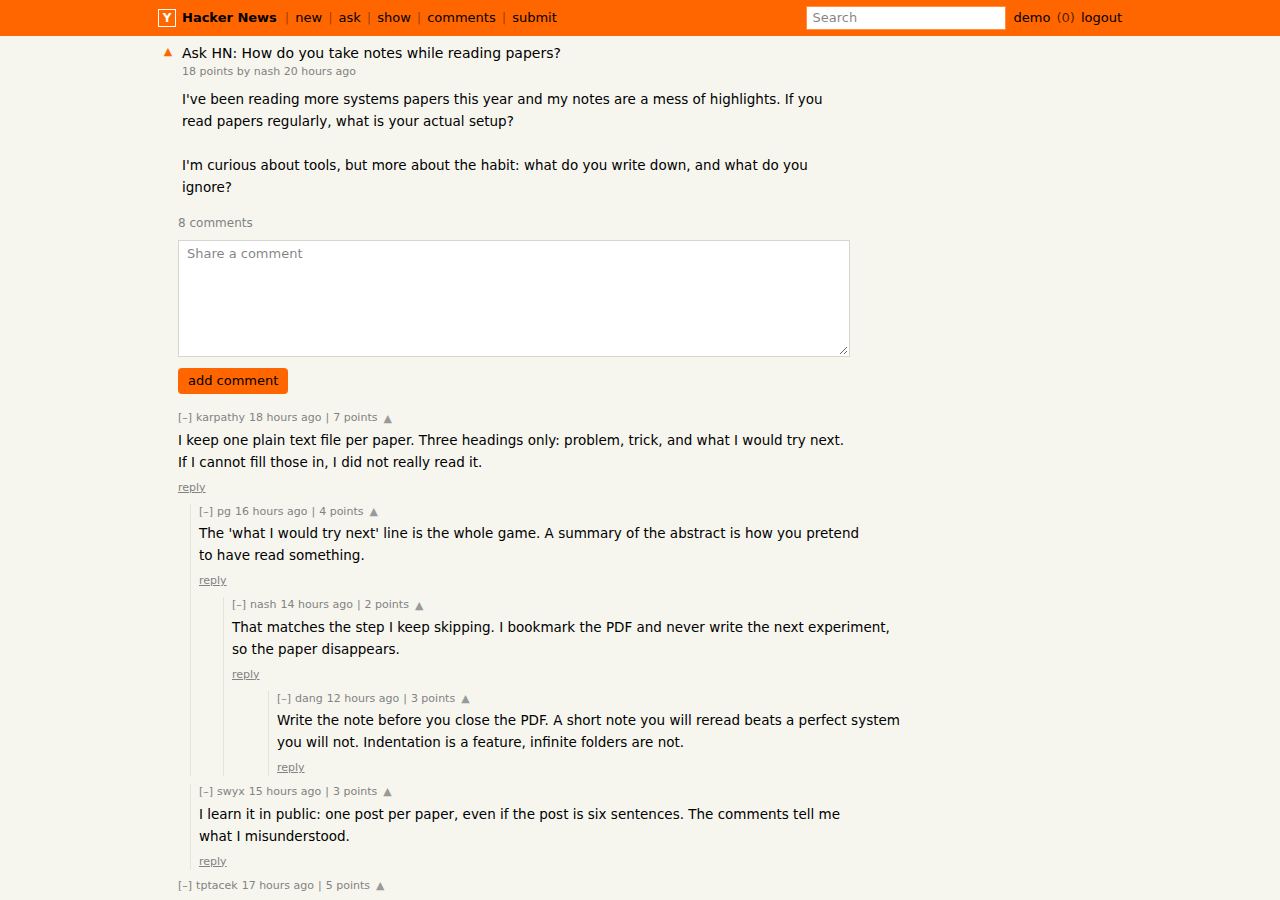
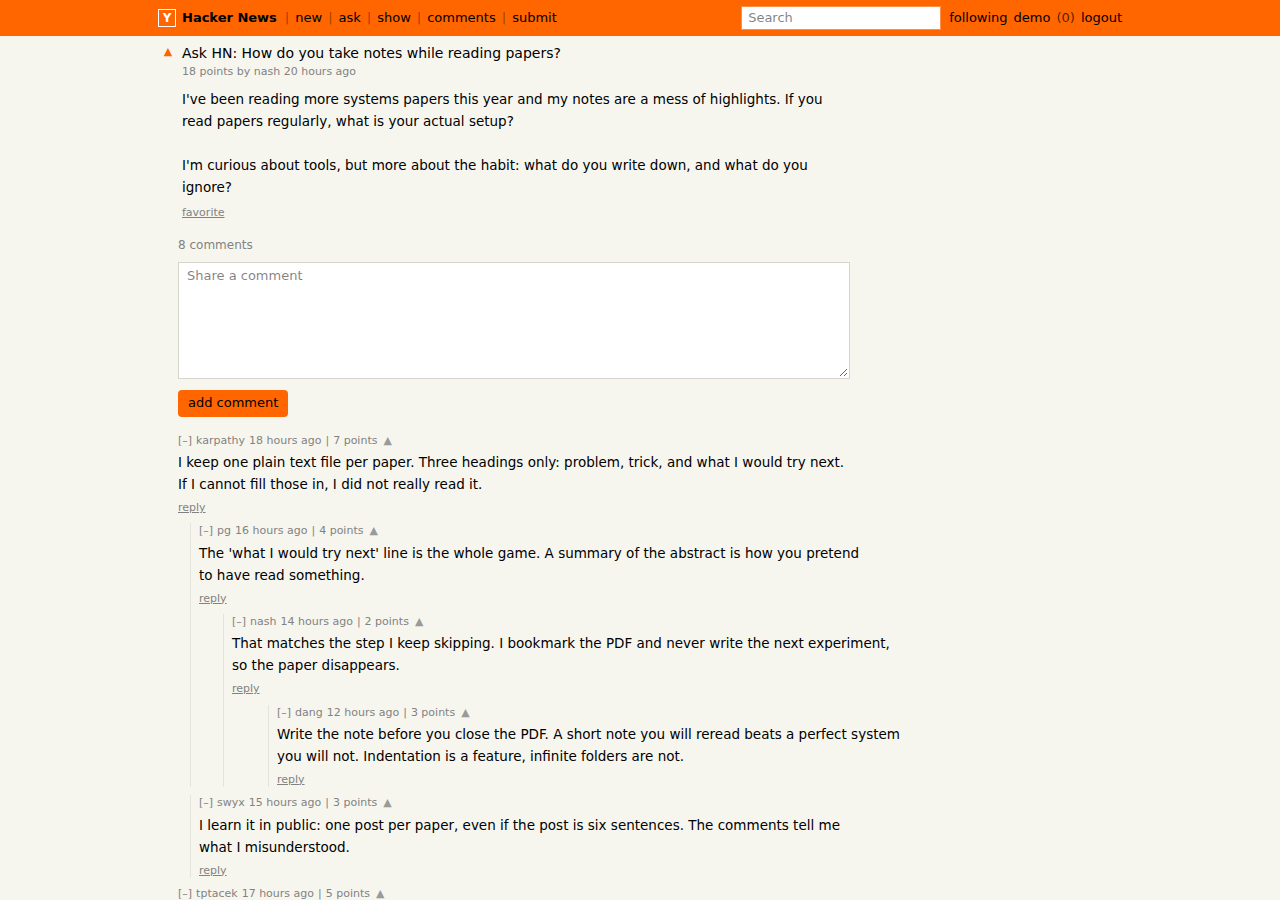
Round 3 Phase 3: capture comment, favorite, and following screenshots.

diff --git a/SCREENSHOTS_UPDATE.md b/SCREENSHOTS_UPDATE.md
@@ -1,0 +1,74 @@
+# 截图补全
+
+第三轮阶段 3 的自检。`scripts/capture-screenshots.mjs` 在原有 7 张图之后，继续用登录后的 demo 账号拍第二轮功能。
+
+## 做了什么
+
+脚本仍用本机 Chrome 打开 `SCREENSHOT_BASE_URL`（默认 `http://127.0.0.1:3000`）。登录 demo 后新增这些步骤：
+
+1. 打开首页第一篇帖子，点 favorite，再打开 `/user/demo`，拍收藏列表。
+2. 打开 `/user/pg`，点 follow，等到 followers 不再是 0，拍粉丝数和关注数。
+3. 打开 `/following`，确认列表里有 pg 的帖子。
+4. 打开「Ask HN: How do you take notes while reading papers?」，给 dang 那条带 “Indentation is a feature…” 的评论投票，拍已投票的箭头。
+5. 在同一帖下发一条评论再删除，拍「已删除」。
+
+收藏和关注放在发评论之前，避免 demo 主页的收藏图里混进刚删掉的评论。
+
+`README.md` 在评论、收藏和关注的说明旁边引用了这 5 张图。截图一节也列出了文件名。
+
+## 新增截图
+
+| 文件 | 功能 |
+| --- | --- |
+| `docs/screenshots/comment-vote.png` | 评论上的投票箭头。已投票时是橙色，旁边是更新后的点数。 |
+| `docs/screenshots/comment-deleted.png` | 软删除后的评论，正文是「已删除」，没有投票按钮。 |
+| `docs/screenshots/profile-favorites.png` | demo 的个人主页，favorites 下列出刚收藏的首页热帖，按钮是 unfavorite。 |
+| `docs/screenshots/profile-following-count.png` | pg 的个人主页。demo 关注之后 followers 为 1，following 为 0，按钮是 unfollow。 |
+| `docs/screenshots/following-page.png` | `/following` 只列出 pg 的帖子，页头说明按首页热度排序。 |
+
+另外重跑脚本时，`user-profile.png`、`item-comments.png`、`search.png`、`submit.png`、`home-mobile.png` 也按当前界面重新生成。`user-profile.png` 现在能看到 followers、following 和 follow 按钮。
+
+## 脚本改动
+
+- 评论投票用元素截图，先等到按钮的可访问名称变成 `Unvote`。
+- 删除后等到刚写的正文从页面消失，再截 `[data-deleted='true']` 且含有「已删除」的评论。这样不会把上一次运行留下的旧删除评论当成这一次。
+- 收藏和关注都先等按钮出现，再根据文字决定要点哪一下，避免客户端跳转还没完成时把次数数成 0。
+- 粉丝数用 `data-testid="follower-count"`，截图前等到它不再是 `0`。按钮文字会先变成 unfollow，计数要等刷新回来。
+
+## 如何验证
+
+先准备数据和生产进程（开发服务器在这段脚本的连续跳转里不稳定，见下方问题）：
+
+```bash
+npm run db:seed
+npx next build
+npx next start --hostname 127.0.0.1 --port 3000
+node scripts/capture-screenshots.mjs
+```
+
+然后看 `docs/screenshots/` 里的 5 个新文件，并打开 README 里对应的图片链接。
+
+## 发现的问题
+
+- 第一次跑时，点进帖子后立刻数 favorite 按钮，客户端导航还没画出来，脚本跳过点击，随后等不到 unfavorite。改成先 `waitFor` 那个按钮。
+- 有一版粉丝数截图里按钮已经是 unfollow，followers 仍是 0。关注请求已经写入，`/following` 也能看到 pg，只是截图早于 `router.refresh()`。脚本改为等到计数离开 0。
+- `next dev` 在脚本连续打开搜索和个人主页时，日志里出现 `SyntaxError: Unexpected end of JSON input`，`/user/pg` 返回 500。同一套页面用 `next build` 之后的 `next start` 全部 200，脚本一次跑完。端到端测试也走生产构建。这次截图因此改在 `next start` 上生成。应用代码没有为这个开发态错误做额外修改。
+
+## 最终状态
+
+5 张新图都在 `docs/screenshots/`，并和脚本、README 一起提交。`git ls-files docs/screenshots` 包含：
+
+- `docs/screenshots/comment-vote.png`
+- `docs/screenshots/comment-deleted.png`
+- `docs/screenshots/profile-favorites.png`
+- `docs/screenshots/profile-following-count.png`
+- `docs/screenshots/following-page.png`
+
+## 测试结果
+
+- `npm run lint` 通过
+- `npm run typecheck` 通过
+- Vitest：19 个文件、111 个测试通过
+- Playwright：23 个测试通过
+
+没有改测试，也没有改页面逻辑。

diff --git a/README.md b/README.md
@@ -28,6 +28,14 @@
 - 作者可以在发表后 15 分钟内（含整 15 分钟）编辑自己的评论。超时、别人的评论、未登录或已删除都会被拒绝。编辑后页面显示 `edited`。
 - 作者可以随时软删除自己的评论。页面和接口对外显示「已删除」，回复留在树里，不能再编辑或投票。原文仍留在数据库里，不再发回浏览器。
 
+评论投票后，箭头是已投票状态：
+
+![评论投票](docs/screenshots/comment-vote.png)
+
+软删除后正文显示「已删除」：
+
+![已删除的评论](docs/screenshots/comment-deleted.png)
+
 ### 收藏和关注
 
 - 登录用户可以收藏或取消收藏帖子，包括自己的帖子。收藏不改变点数，也不改变 karma。
@@ -35,6 +43,18 @@
 - 登录用户可以关注或取消关注其他用户。不能关注自己。
 - 个人主页显示 followers 和 following。自己看自己的主页没有关注按钮。
 - 登录后顶栏有 `/following`。这个页面只列出你关注的人发布的帖子，仍按首页热度排序。还没关注任何人时是空状态；未登录访问会要求先登录。
+
+个人主页里的收藏列表：
+
+![收藏列表](docs/screenshots/profile-favorites.png)
+
+个人主页上的粉丝数和关注数。下面这张是 demo 关注 pg 之后，pg 的 followers 变成 1：
+
+![关注与粉丝](docs/screenshots/profile-following-count.png)
+
+`/following` 只显示被关注作者的帖子：
+
+![关注的人的帖子](docs/screenshots/following-page.png)
 
 ### 速率限制和重复内容
 
@@ -144,6 +164,8 @@ npx tsx scripts/scale-bench.ts
 窄屏首页：
 
 ![窄屏首页](docs/screenshots/home-mobile.png)
+
+评论投票、软删除、收藏、粉丝数和关注页的图放在上面对应功能旁边，文件分别是 `comment-vote.png`、`comment-deleted.png`、`profile-favorites.png`、`profile-following-count.png`、`following-page.png`。
 
 ## 目录
 
